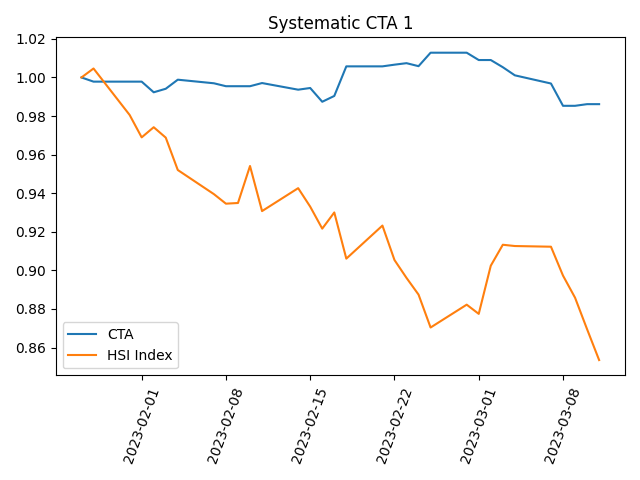
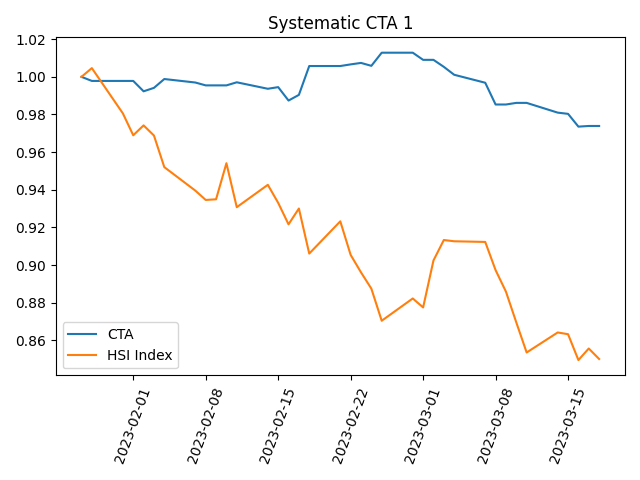
Update trades Mar 13-Mar 19

diff --git a/_posts/2023-01-29-2023-trades.md b/_posts/2023-01-29-2023-trades.md
@@ -12,6 +12,211 @@ hidden: true
 ## Equity Curve (Live Trading)
 ![Markdown Image][1]
 
+## Mar 13 (Mon) - Mar 19 (Sun)
+<table border="1" class="dataframe">
+  <thead>
+    <tr style="text-align: right;">
+      <th></th>
+      <th>metrics</th>
+    </tr>
+  </thead>
+  <tbody>
+    <tr>
+      <th>start_date</th>
+      <td>2023-03-14</td>
+    </tr>
+    <tr>
+      <th>end_date</th>
+      <td>2023-03-18</td>
+    </tr>
+    <tr>
+      <th>num_calendar_days</th>
+      <td>4</td>
+    </tr>
+    <tr>
+      <th>num_trade_days</th>
+      <td>5</td>
+    </tr>
+    <tr>
+      <th>num_trades</th>
+      <td>15</td>
+    </tr>
+    <tr>
+      <th>win_ratio</th>
+      <td>13.33%</td>
+    </tr>
+    <tr>
+      <th>pnl_per_trade</th>
+      <td>-778.67</td>
+    </tr>
+    <tr>
+      <th>max_pnl_trade</th>
+      <td>3000.00</td>
+    </tr>
+    <tr>
+      <th>min_pnl_trade</th>
+      <td>-2820.00</td>
+    </tr>
+    <tr>
+      <th>pct_pnl_per_trade</th>
+      <td>-0.18%</td>
+    </tr>
+    <tr>
+      <th>max_pct_pnl_trade</th>
+      <td>0.93%</td>
+    </tr>
+    <tr>
+      <th>min_pct_pnl_trade</th>
+      <td>-0.64%</td>
+    </tr>
+    <tr>
+      <th>avg_holding_period</th>
+      <td>74.51</td>
+    </tr>
+  </tbody>
+</table>
+
+<table border="1" class="dataframe">
+  <thead>
+    <tr style="text-align: right;">
+      <th>datetime</th>
+      <th>strategy_portfolio_value</th>
+      <th>actions</th>
+    </tr>
+  </thead>
+  <tbody>
+    <tr>
+      <td>2023-03-13 11:46:43</td>
+      <td>0.98605</td>
+      <td>[{'no': 1, 'sec': 'HK.MHImain', 'qty': 3, 'side': 'LONG', 'close': 19796.0, 'offset': 'OPEN'}, {'no': 1, 'sec': 'HK.HHImain', 'qty': 1, 'side': 'LONG', 'close': 6647.0, 'offset': 'OPEN'}]</td>
+    </tr>
+    <tr>
+      <td>2023-03-13 13:20:40</td>
+      <td>0.98264</td>
+      <td>[{'no': 1, 'sec': 'HK.HHImain', 'qty': 1, 'side': 'SHORT', 'close': 6618.0, 'offset': 'CLOSE'}]</td>
+    </tr>
+    <tr>
+      <td>2023-03-13 13:37:41</td>
+      <td>0.98185</td>
+      <td>[{'no': 1, 'sec': 'HK.MHImain', 'qty': 3, 'side': 'SHORT', 'close': 19702.0, 'offset': 'CLOSE'}]</td>
+    </tr>
+    <tr>
+      <td>2023-03-13 13:46:47</td>
+      <td>0.98196</td>
+      <td>[{'no': 1, 'sec': 'HK.MHImain', 'qty': 3, 'side': 'LONG', 'close': 19702.0, 'offset': 'OPEN'}, {'no': 1, 'sec': 'HK.HHImain', 'qty': 1, 'side': 'LONG', 'close': 6608.0, 'offset': 'OPEN'}]</td>
+    </tr>
+    <tr>
+      <td>2023-03-13 14:34:45</td>
+      <td>0.98082</td>
+      <td>[{'no': 1, 'sec': 'HK.HHImain', 'qty': 1, 'side': 'SHORT', 'close': 6595.0, 'offset': 'CLOSE'}]</td>
+    </tr>
+    <tr>
+      <td>2023-03-13 14:38:45</td>
+      <td>0.98058</td>
+      <td>[{'no': 1, 'sec': 'HK.MHImain', 'qty': 3, 'side': 'SHORT', 'close': 19686.0, 'offset': 'CLOSE'}]</td>
+    </tr>
+    <tr>
+      <td>2023-03-13 15:16:47</td>
+      <td>0.98048</td>
+      <td>[{'no': 1, 'sec': 'HK.HHImain', 'qty': 1, 'side': 'LONG', 'close': 6562.0, 'offset': 'OPEN'}]</td>
+    </tr>
+    <tr>
+      <td>2023-03-13 17:16:52</td>
+      <td>0.98023</td>
+      <td>[{'no': 1, 'sec': 'HK.HHImain', 'qty': 1, 'side': 'SHORT', 'close': 6556.0, 'offset': 'CLOSE'}]</td>
+    </tr>
+    <tr>
+      <td>2023-03-13 20:17:02</td>
+      <td>0.98018</td>
+      <td>[{'no': 1, 'sec': 'HK.HHImain', 'qty': 1, 'side': 'LONG', 'close': 6512.0, 'offset': 'OPEN'}]</td>
+    </tr>
+    <tr>
+      <td>2023-03-13 20:26:03</td>
+      <td>0.98098</td>
+      <td>[{'no': 1, 'sec': 'HK.HHImain', 'qty': 1, 'side': 'SHORT', 'close': 6526.0, 'offset': 'CLOSE'}]</td>
+    </tr>
+    <tr>
+      <td>2023-03-14 10:46:35</td>
+      <td>0.98083</td>
+      <td>[{'no': 1, 'sec': 'HK.HHImain', 'qty': 1, 'side': 'LONG', 'close': 6505.0, 'offset': 'OPEN'}]</td>
+    </tr>
+    <tr>
+      <td>2023-03-14 10:54:35</td>
+      <td>0.98033</td>
+      <td>[{'no': 1, 'sec': 'HK.HHImain', 'qty': 1, 'side': 'SHORT', 'close': 6494.0, 'offset': 'CLOSE'}]</td>
+    </tr>
+    <tr>
+      <td>2023-03-15 10:16:41</td>
+      <td>0.98023</td>
+      <td>[{'no': 1, 'sec': 'HK.MHImain', 'qty': 3, 'side': 'LONG', 'close': 19716.0, 'offset': 'OPEN'}, {'no': 1, 'sec': 'HK.HHImain', 'qty': 1, 'side': 'LONG', 'close': 6613.0, 'offset': 'OPEN'}]</td>
+    </tr>
+    <tr>
+      <td>2023-03-15 11:02:44</td>
+      <td>0.97649</td>
+      <td>[{'no': 1, 'sec': 'HK.MHImain', 'qty': 3, 'side': 'SHORT', 'close': 19630.0, 'offset': 'CLOSE'}, {'no': 1, 'sec': 'HK.HHImain', 'qty': 1, 'side': 'SHORT', 'close': 6586.0, 'offset': 'CLOSE'}]</td>
+    </tr>
+    <tr>
+      <td>2023-03-15 13:16:43</td>
+      <td>0.97654</td>
+      <td>[{'no': 1, 'sec': 'HK.HHImain', 'qty': 1, 'side': 'LONG', 'close': 6556.0, 'offset': 'OPEN'}]</td>
+    </tr>
+    <tr>
+      <td>2023-03-15 13:34:44</td>
+      <td>0.97509</td>
+      <td>[{'no': 1, 'sec': 'HK.HHImain', 'qty': 1, 'side': 'SHORT', 'close': 6529.0, 'offset': 'CLOSE'}]</td>
+    </tr>
+    <tr>
+      <td>2023-03-15 14:31:48</td>
+      <td>0.97509</td>
+      <td>[{'no': 1, 'sec': 'HK.HHImain', 'qty': 1, 'side': 'LONG', 'close': 6574.0, 'offset': 'OPEN'}]</td>
+    </tr>
+    <tr>
+      <td>2023-03-15 17:27:56</td>
+      <td>0.97409</td>
+      <td>[{'no': 1, 'sec': 'HK.HHImain', 'qty': 1, 'side': 'SHORT', 'close': 6556.0, 'offset': 'CLOSE'}]</td>
+    </tr>
+    <tr>
+      <td>2023-03-15 17:46:57</td>
+      <td>0.97409</td>
+      <td>[{'no': 1, 'sec': 'HK.HHImain', 'qty': 1, 'side': 'LONG', 'close': 6532.0, 'offset': 'OPEN'}]</td>
+    </tr>
+    <tr>
+      <td>2023-03-15 17:59:58</td>
+      <td>0.97354</td>
+      <td>[{'no': 1, 'sec': 'HK.HHImain', 'qty': 1, 'side': 'SHORT', 'close': 6521.0, 'offset': 'CLOSE'}]</td>
+    </tr>
+    <tr>
+      <td>2023-03-16 11:01:40</td>
+      <td>0.97349</td>
+      <td>[{'no': 1, 'sec': 'HK.HHImain', 'qty': 1, 'side': 'LONG', 'close': 6548.0, 'offset': 'OPEN'}]</td>
+    </tr>
+    <tr>
+      <td>2023-03-16 11:36:42</td>
+      <td>0.97139</td>
+      <td>[{'no': 1, 'sec': 'HK.HHImain', 'qty': 1, 'side': 'SHORT', 'close': 6506.0, 'offset': 'CLOSE'}]</td>
+    </tr>
+    <tr>
+      <td>2023-03-16 18:17:00</td>
+      <td>0.97134</td>
+      <td>[{'no': 1, 'sec': 'HK.HHImain', 'qty': 1, 'side': 'LONG', 'close': 6468.0, 'offset': 'OPEN'}]</td>
+    </tr>
+    <tr>
+      <td>2023-03-16 22:20:14</td>
+      <td>0.97104</td>
+      <td>[{'no': 1, 'sec': 'HK.HHImain', 'qty': 1, 'side': 'SHORT', 'close': 6462.0, 'offset': 'CLOSE'}]</td>
+    </tr>
+    <tr>
+      <td>2023-03-16 22:31:15</td>
+      <td>0.97104</td>
+      <td>[{'no': 1, 'sec': 'HK.HHImain', 'qty': 1, 'side': 'LONG', 'close': 6462.0, 'offset': 'OPEN'}]</td>
+    </tr>
+    <tr>
+      <td>2023-03-17 00:09:21</td>
+      <td>0.97389</td>
+      <td>[{'no': 1, 'sec': 'HK.HHImain', 'qty': 1, 'side': 'SHORT', 'close': 6522.0, 'offset': 'CLOSE'}]</td>
+    </tr>
+  </tbody>
+</table>
 ## Mar 6 (Mon) - Mar 12 (Sun)
 <table border="1" class="dataframe">
   <thead>
